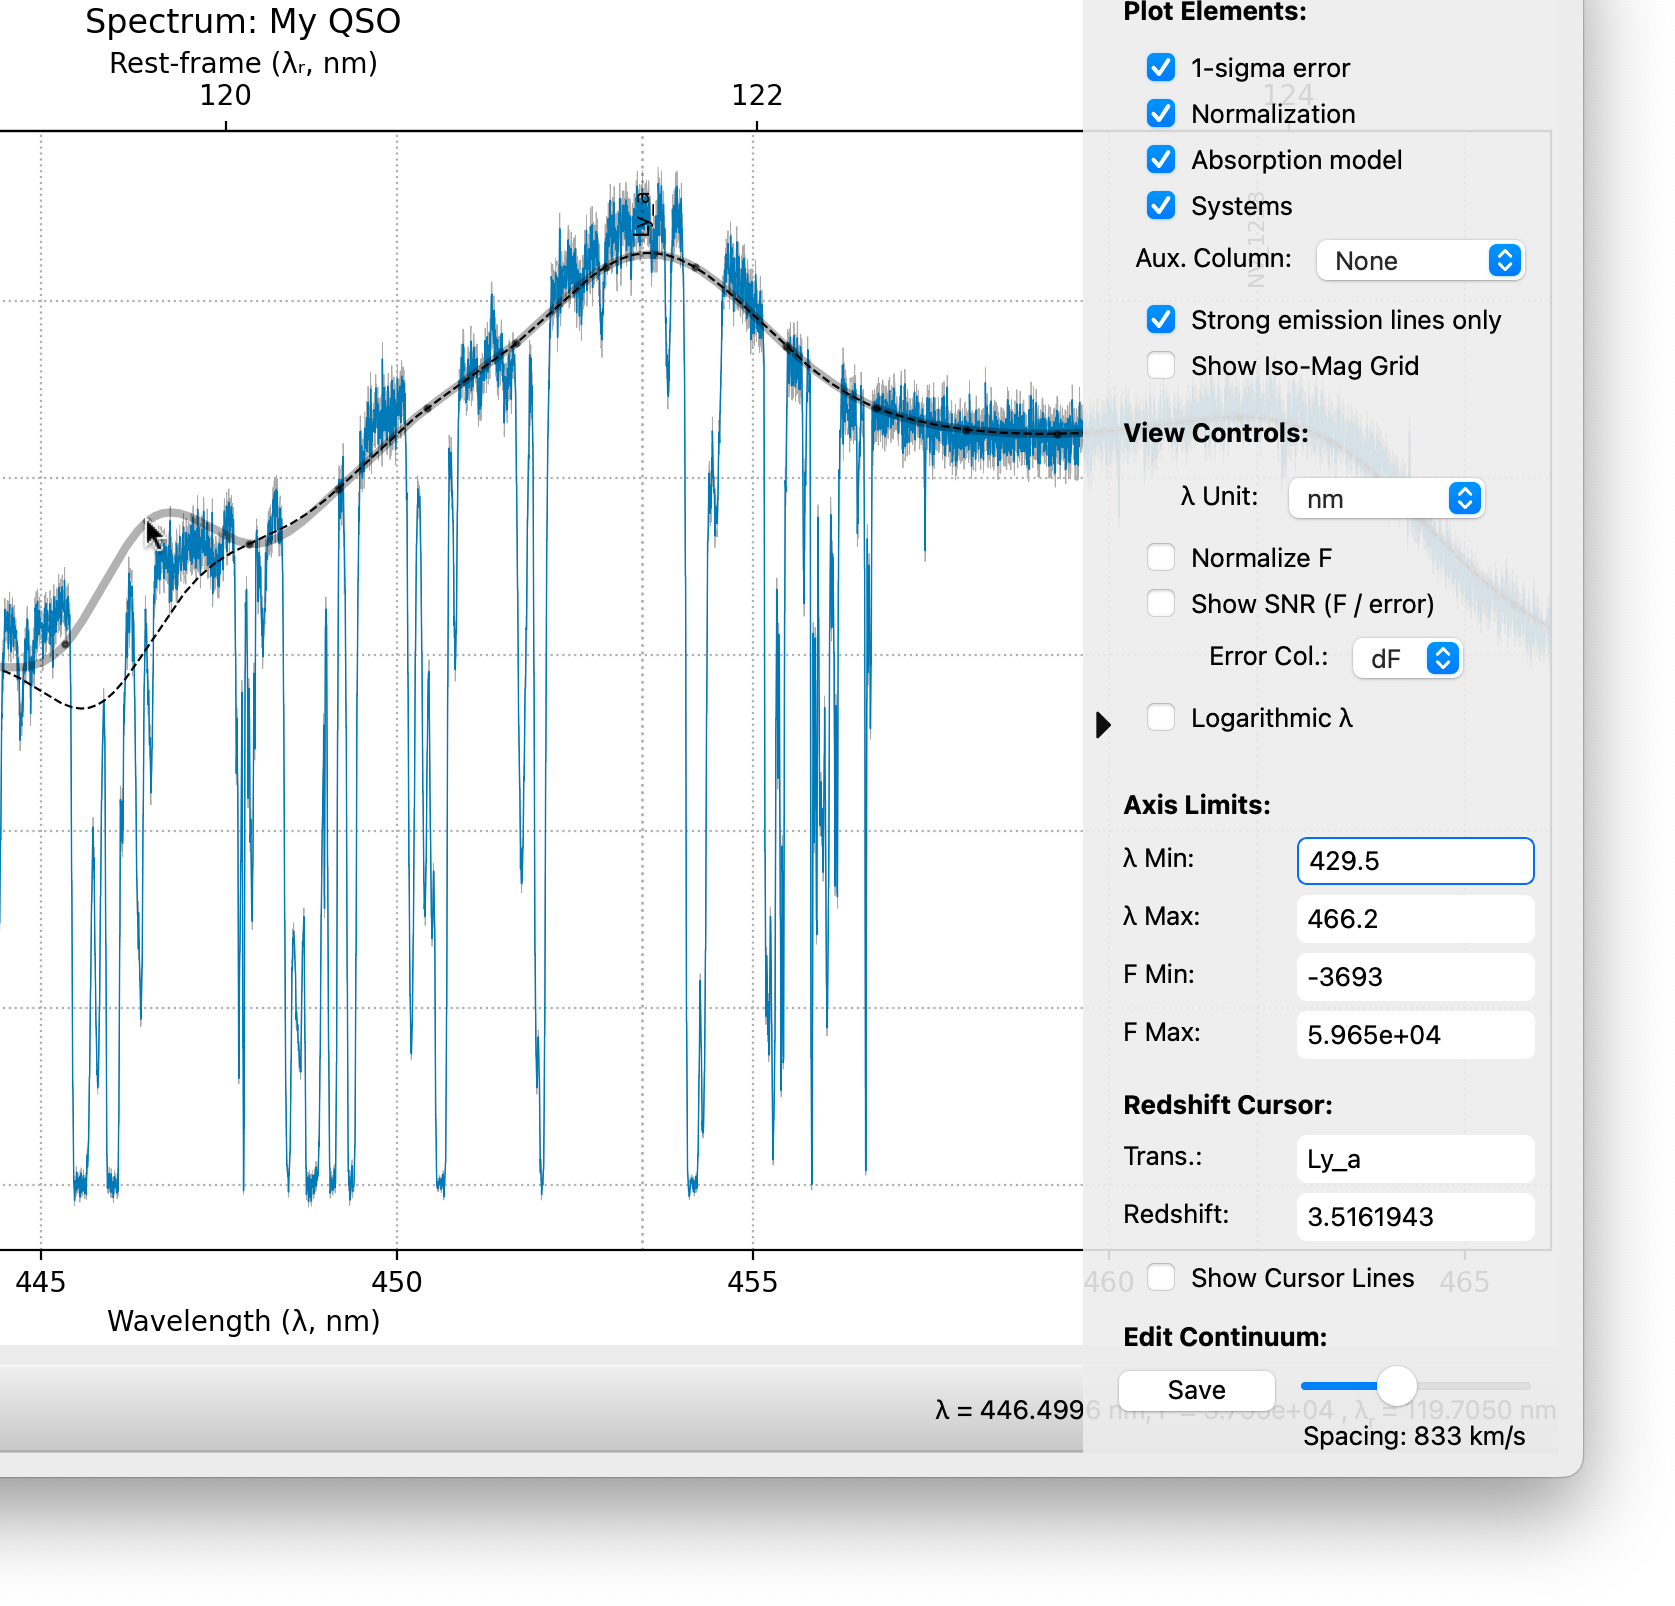
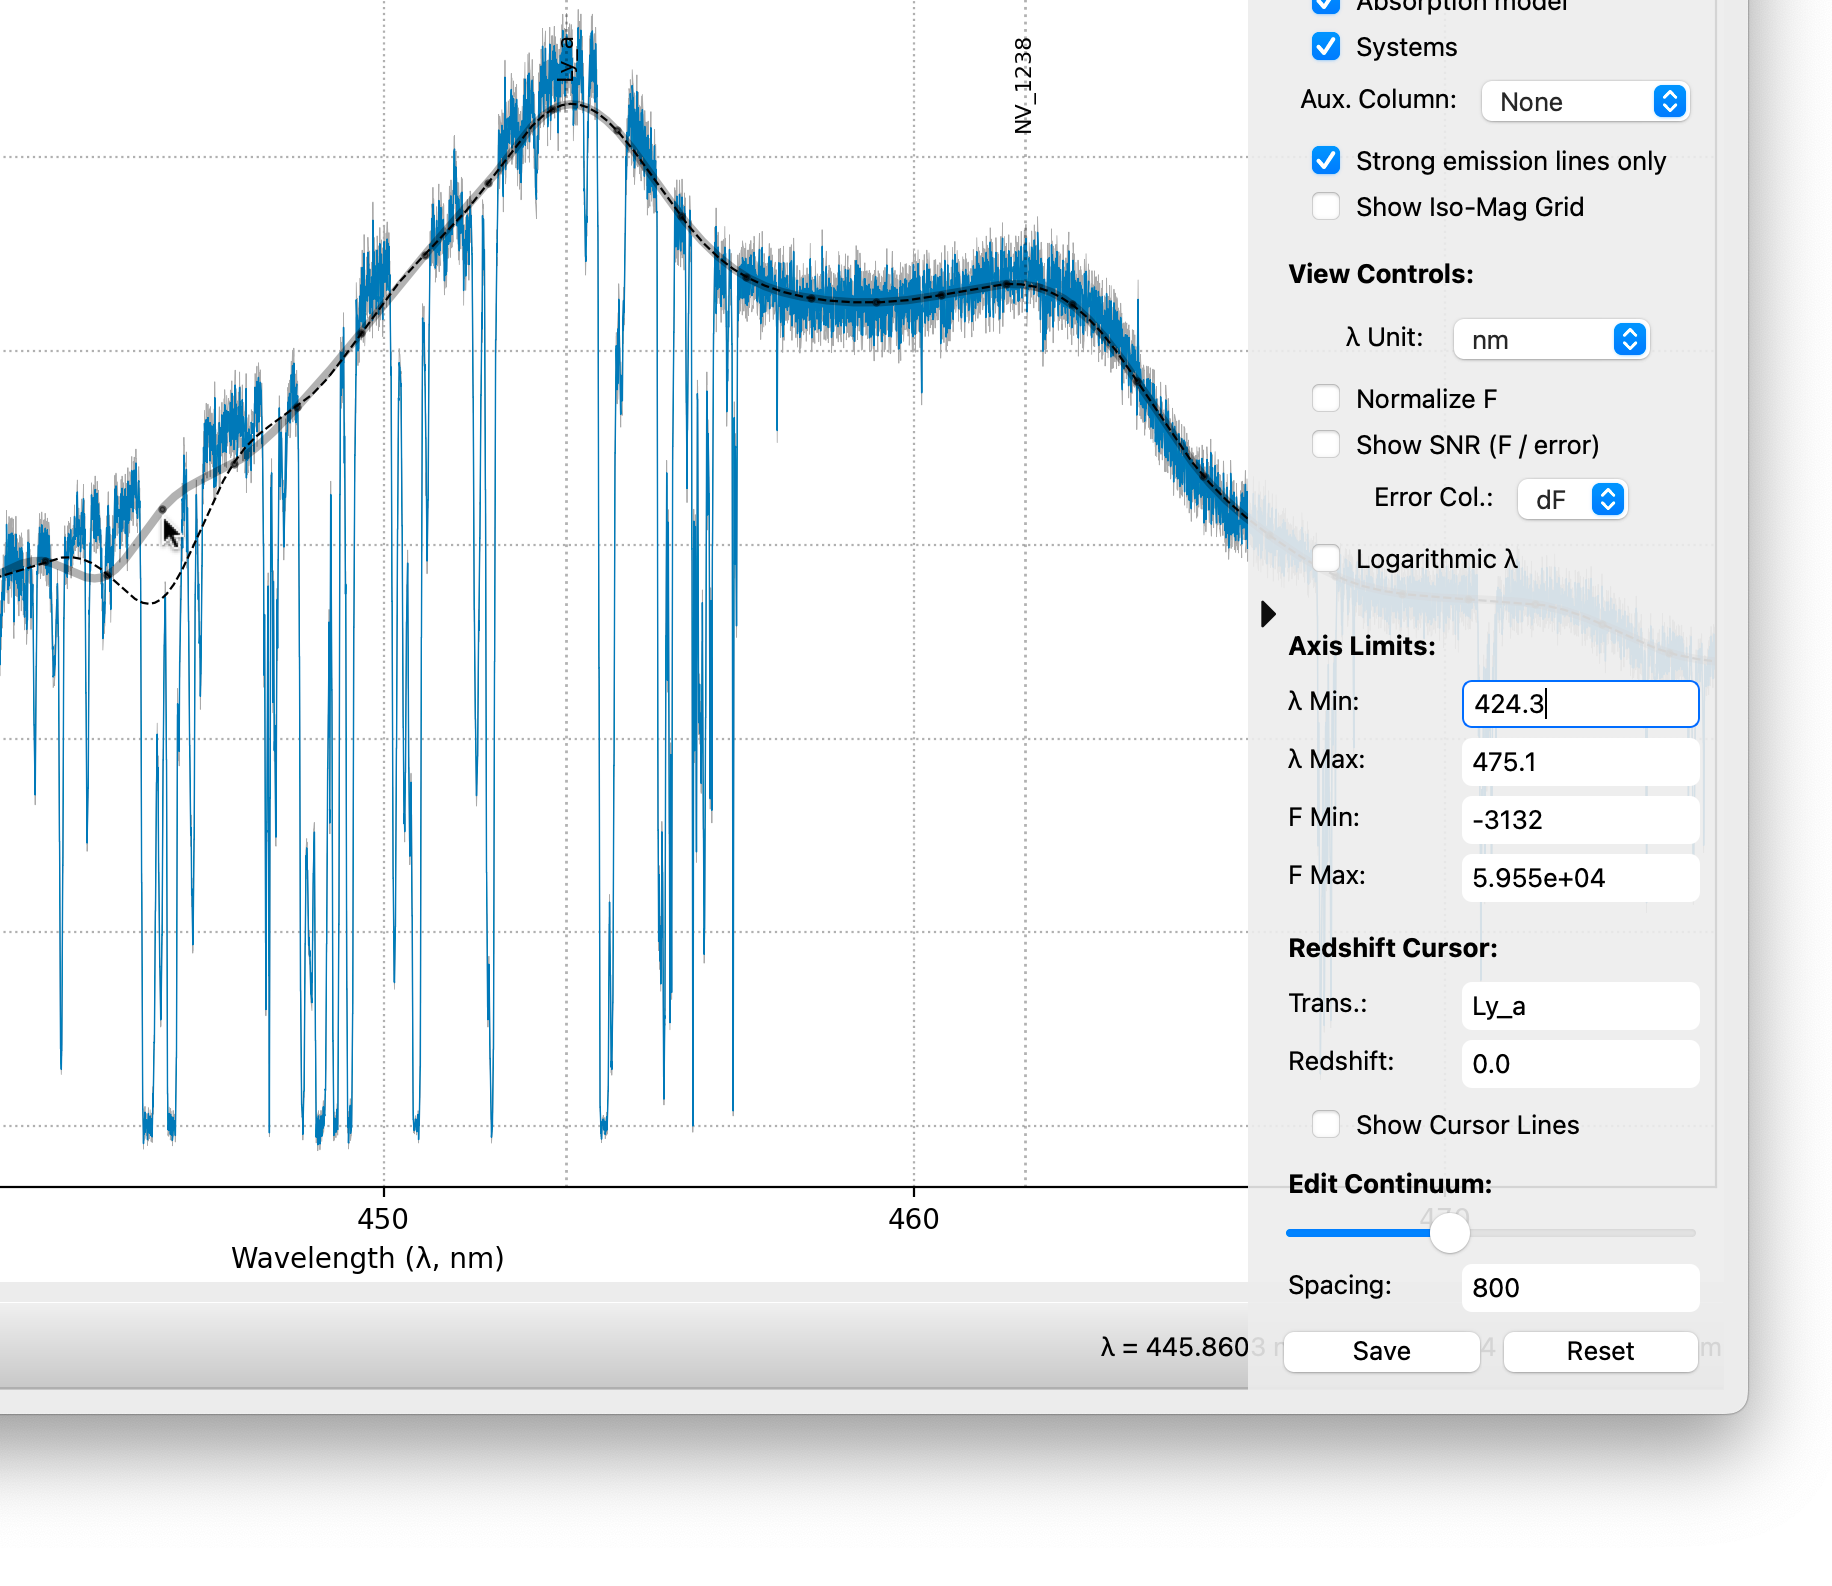
fix(docs): Adjusted documentation to changes in manual continuum editing

diff --git a/docs/tutorials/continuum_fitting.md b/docs/tutorials/continuum_fitting.md
@@ -31,20 +31,20 @@ If you need more control, you can run the process in two steps:
 1. **Continuum > Find Absorbed Regions...**: Creates a mask (`abs_mask`) separating line/continuum.
 2. **Continuum > Fit Continuum to Mask...**: Interpolates the continuum only over the unmasked regions. This allows you to manually edit the `abs_mask` (via [Apply Expression](#editing-arithmetic)) between steps if the automatic masking missed something.
 
-
+(continuum-manual)=
 ## 2. Interactive Manual Editing
 
 Automatic fits sometimes fail near complex emission lines or spectral edges. You can correct these manually using the **Right Sidebar**.
-
-:::{important}
-Always **run an automatic estimate first** (Step 1). While the manual editor can start from scratch, it is designed to *refine* an existing continuum curve. Starting from raw flux usually produces poor results.
-:::
 
 ### Starting the Editor
 
 1. Look at the **Edit Continuum** section in the right sidebar.
 2. Click the **Start** button.
 3. **Knots** (black dots) will appear along the current continuum.
+
+   :::{note}
+   If no continuum exists yet, Astrocook will prompt you to run the **Auto-estimate** routine first. You cannot edit the raw flux directly.
+   :::
 
 ### Modifying Knots
 
@@ -54,14 +54,16 @@ Always **run an automatic estimate first** (Step 1). While the manual editor can
 
 - **Remove**: Right-click on an existing knot to delete it.
 
-### Controlling Stiffness (The Slider)
+### Controlling Stiffness (Slider & Spacing)
 
-The slider next to the Start button controls the **knot density** (spacing).
+You can adjust the **knot density** using the slider or the **Spacing** text box.
 
-- **Slide Left**: Increases density (knots are closer). This allows the continuum to follow sharper variations (e.g., on top of emission lines).
-- **Slide Right**: Decreases density. This makes the continuum smoother and stiffer.
+- **Slider**: Drag left to increase density (closer knots) or right to decrease it (smoother curve).
+- **Spacing Box**: Type a precise velocity spacing (in km/s) and press Enter.
 
-**Warning:** Changing the slider re-samples the knots. If you have moved specific knots, adjusting the slider might reset their positions to the grid.
+:::{important}
+Changing the spacing may affect the overall shape of the continuum. If you want to discard your manual moves and revert to the original continuum shape, click the **Reset** button (next to *Save*). This restores the knots to their default distribution based on the saved continuum.
+:::
 
 ```{image} ../_static/continuum_manual_edit.png
 :alt: Applying a mathematical expression to a column
@@ -82,11 +84,10 @@ For quasars, it is often useful to fit a power-law continuum ($F_\lambda\propto\
 :::{note}
 This operation assumes your spectrum is **flux calibrated** (the overall shape is physically meaningful). It also requires **Emission Redshift ($z_{em}$)** to be defined. If missing, Astrocook will automatically prompt you to set them via the [Set Properties](#editing-properties) dialog before proceeding.
 :::
-:::
 
 1. Go to **Continuum > Fit Power-Law...**.
 2. **Regions:** Enter a list of comma-separated wavelength ranges (in **rest-frame** nm) known to be free of emission lines.
    - Default: `128.0-129.0, 131.5-132.5, 134.5-136.0` (standard windows outside the Lyman forest).
 3. Click **Run**.
 
-This creates a new column `cont_pl` which you can view or use as a baseline for further fitting.
+This creates a new column `cont_pl` which is **automatically displayed** on the plot (via the *Aux. Column* selector). You can use it as a baseline for further fitting.

diff --git a/docs/tutorials/getting_started.md b/docs/tutorials/getting_started.md
@@ -83,6 +83,9 @@ This is a handy tool for quick visual inspection.
 If the **Zoom** or **Pan** tools are active in the toolbar, the right-click shortcut is overridden. In this case, hold `Ctrl` (or `Cmd` on Mac) while right-clicking to access the context menu.
 :::
 
+### The Continuum Editor
+
+Located at the bottom of the sidebar, this panel allows you to interactively refine the continuum shape using spline knots. See the [Interactive Manual Editing](#continuum-manual) in the Continuum Fitting tutorial for a detailed guide on using the slider, spacing box, and editing tools.
 
 ## 4. Session Management (Left Sidebar)
 
